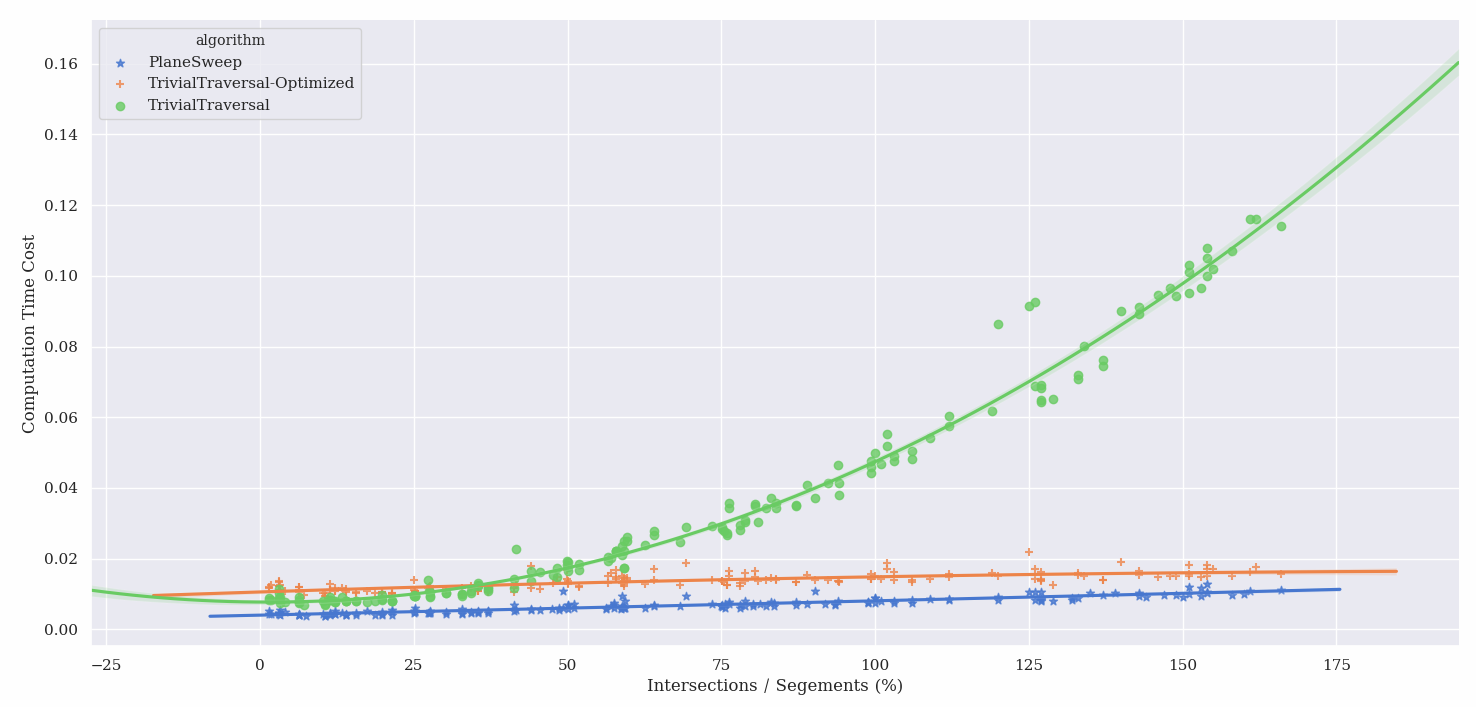
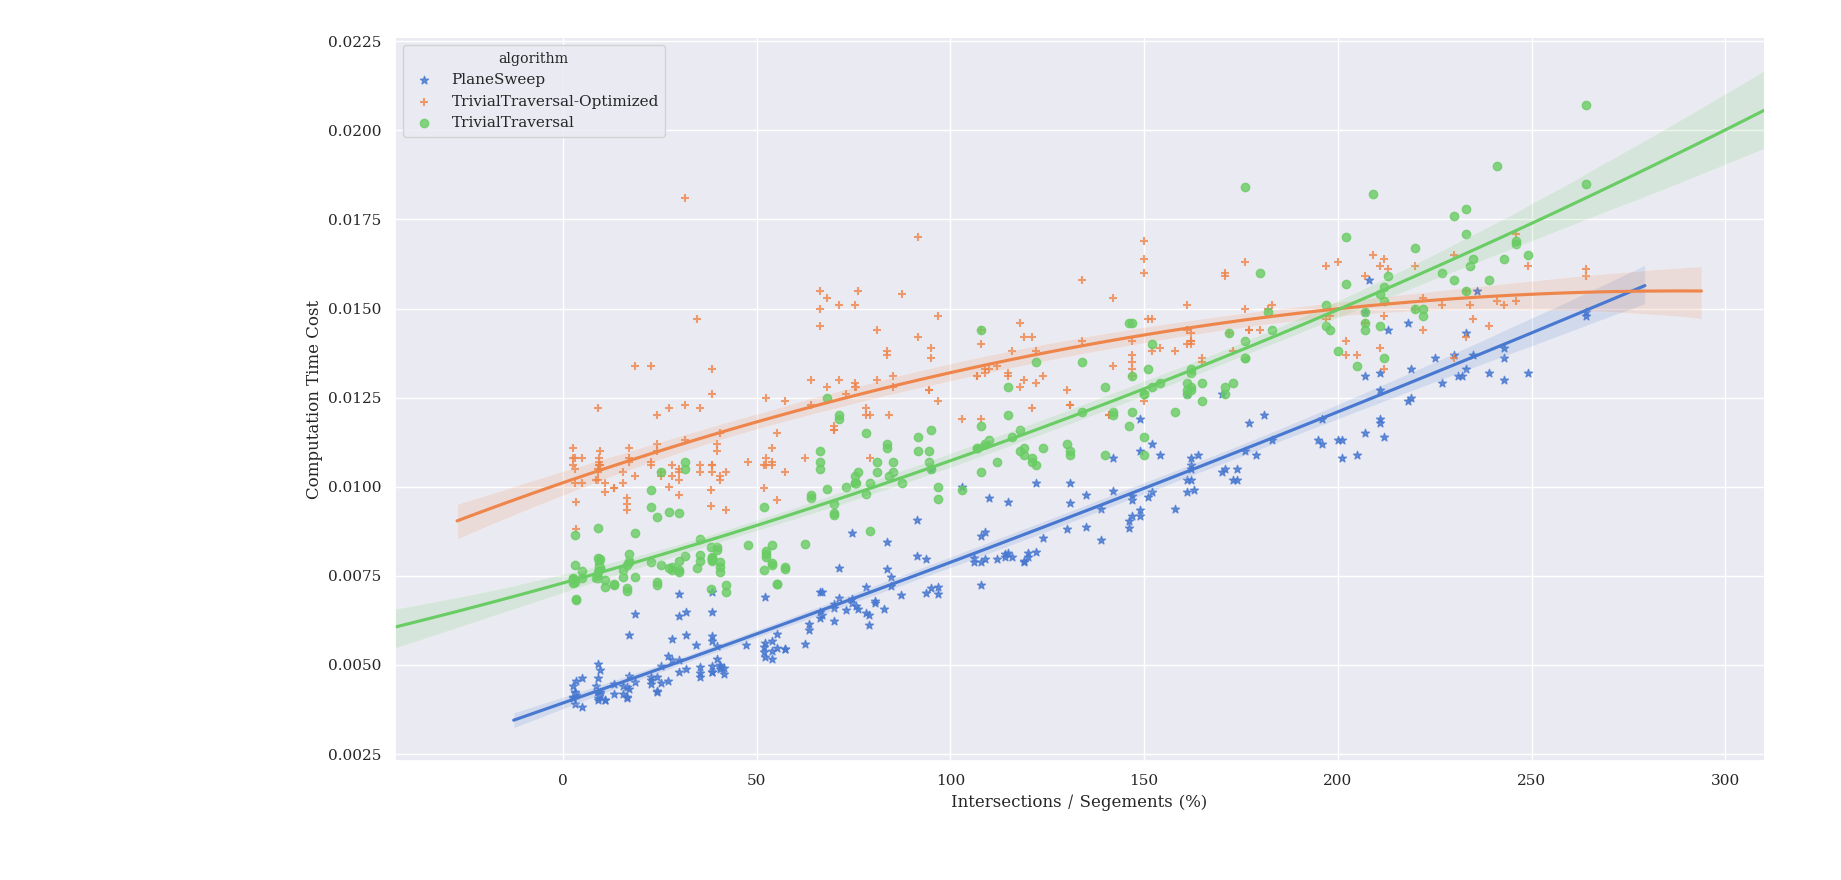
traversal bug fix

diff --git a/Topics/Line Segment Intersection/TrivialTraversalAlgorithm.h b/Topics/Line Segment Intersection/TrivialTraversalAlgorithm.h
@@ -58,18 +58,8 @@ std::vector<PointSegmentAffiliationTraversal> SegmentIntersectionTraversal(std::
 				continue;
 			}
 			int match_index_ = -1;
-			std::vector<PointSegmentAffiliationTraversal> inter_info_hist;
-			std::vector<PointSegmentAffiliationTraversal> *ptr_inter_info_hist;
-			if (simplify_opt) {
-				ptr_inter_info_hist = &inter_info_tmp;
-			} else {
-				inter_info_hist.insert(inter_info_hist.end(), inter_info.begin(), inter_info.end());
-				inter_info_hist.insert(inter_info_hist.end(), inter_info_tmp.begin(), inter_info_tmp.end());
-				ptr_inter_info_hist = &inter_info_hist;
-			}
-			for (int inter_ = 0; inter_ < ptr_inter_info_hist->size(); inter_++) {
-				if (PointCoordSequence((*ptr_inter_info_hist)[inter_].point_, &intersection_,
-															 g_GlobalVars.convention_epsilon) != EQN) {
+			for (int inter_ = 0; inter_ < inter_info_tmp.size(); inter_++) {
+				if (PointCoordSequence(inter_info_tmp[inter_].point_, &intersection_, g_GlobalVars.convention_epsilon) != EQN) {
 					// not match
 				} else {
 					// match
@@ -78,30 +68,57 @@ std::vector<PointSegmentAffiliationTraversal> SegmentIntersectionTraversal(std::
 				}
 			}
 			if (match_index_ > 0) {
-				// match
-				(*ptr_inter_info_hist)[match_index_].segments_.push_back(&((*ptr_segs)[j_]));
-				(*ptr_inter_info_hist)[match_index_].num_ += 1;
-				for (int index_ = 1; index_ < (*ptr_inter_info_hist)[match_index_].seg_indeces_.size(); index_++) {
-					std::map<int, std::vector<int>>::iterator ptr_jump_index_tmp = jump_dict.find(index_);
-					if (ptr_jump_index_tmp != jump_dict.end()) {
-						jump_dict[index_] = std::vector<int>(j_);
-					} else {
-						jump_dict[index_].push_back(j_);
+				// match one tmp
+				inter_info_tmp[match_index_].segments_.push_back(&((*ptr_segs)[j_]));
+				inter_info_tmp[match_index_].num_ += 1;
+				if (simplify_opt) {
+					for (int index_ = 1; index_ < inter_info_tmp[match_index_].seg_indeces_.size(); index_++) {
+						std::map<int, std::vector<int>>::iterator ptr_jump_index_tmp = jump_dict.find(index_);
+						if (ptr_jump_index_tmp != jump_dict.end()) {
+							jump_dict[index_] = std::vector<int>(j_);
+						} else {
+							jump_dict[index_].push_back(j_);
+						}
 					}
+					inter_info_tmp[match_index_].seg_indeces_.push_back(j_);
 				}
-				(*ptr_inter_info_hist)[match_index_].seg_indeces_.push_back(j_);
 				// LOG(INFO) << "find one existing intersection: (" << intersection_.x_ << "," << intersection_.y_ << ")";
 			} else {
-				// new one
-				intersection_pts->push_back(intersection_);
-				PointSegmentAffiliationTraversal info_tmp(EUC2D, (*ptr_segs).size(), &(intersection_pts->back()));
-				info_tmp.segments_.push_back(&((*ptr_segs)[i_]));
-				info_tmp.segments_.push_back(&((*ptr_segs)[j_]));
-				info_tmp.num_ += 2;
-				info_tmp.seg_indeces_.push_back(i_);
-				info_tmp.seg_indeces_.push_back(j_);
-				inter_info_tmp.push_back(info_tmp);
-				// LOG(INFO) << "find one new intersection: (" << intersection_.x_ << "," << intersection_.y_ << ")";
+				if (simplify_opt) {
+					// new one
+					intersection_pts->push_back(intersection_);
+					PointSegmentAffiliationTraversal info_tmp(EUC2D, (*ptr_segs).size(), &(intersection_pts->back()));
+					info_tmp.segments_.push_back(&((*ptr_segs)[i_]));
+					info_tmp.segments_.push_back(&((*ptr_segs)[j_]));
+					info_tmp.num_ += 2;
+					info_tmp.seg_indeces_.push_back(i_);
+					info_tmp.seg_indeces_.push_back(j_);
+					inter_info_tmp.push_back(info_tmp);
+					// LOG(INFO) << "find one new intersection: (" << intersection_.x_ << "," << intersection_.y_ << ")";
+				} else {
+					// new one or previously generated
+					for (int inter_ = 0; inter_ < inter_info.size(); inter_++) {
+						if (PointCoordSequence(inter_info[inter_].point_, &intersection_, g_GlobalVars.convention_epsilon) != EQN) {
+							// not match
+						} else {
+							// match
+							match_index_ = inter_;
+							break;
+						}
+					}
+					if (match_index_ > 0) {
+						// match one previously generated
+					} else {
+						// new one
+						intersection_pts->push_back(intersection_);
+						PointSegmentAffiliationTraversal info_tmp(EUC2D, (*ptr_segs).size(), &(intersection_pts->back()));
+						info_tmp.segments_.push_back(&((*ptr_segs)[i_]));
+						info_tmp.segments_.push_back(&((*ptr_segs)[j_]));
+						info_tmp.num_ += 2;
+						inter_info_tmp.push_back(info_tmp);
+						// LOG(INFO) << "find one new intersection: (" << intersection_.x_ << "," << intersection_.y_ << ")";
+					}
+				}
 			}
 		}
 		inter_info.insert(inter_info.end(), inter_info_tmp.begin(), inter_info_tmp.end());

diff --git a/main.cpp b/main.cpp
@@ -317,7 +317,7 @@ int main(int argc, char **argv) {
 
 	// sweepline_test(10.0, 4.0, 1, true);
 
-	for (float exp_ = 1.2; exp_ < 4.5; exp_ += 0.1) {
+	for (float exp_ = 1.2; exp_ < 6.5; exp_ += 0.1) {
 		for (int expr_ = 0; expr_ < 5; expr_ += 1) {
 			sweepline_test(10.0, exp_, 5);	// atof(argv[1]), atoi(argv[2])
 		}

diff --git a/Topics/Line Segment Intersection/ReadMe.md b/Topics/Line Segment Intersection/ReadMe.md
@@ -4,13 +4,16 @@
 
 <div align=center>
 <img src="https://github.com/ChenZhouUC/GeoChain/blob/master/Topics/Line%20Segment%20Intersection/analysis_1.png" alt="sweepline_anal1" width="1000" height="567"/>
-<img src="https://github.com/ChenZhouUC/GeoChain/blob/master/Topics/Line%20Segment%20Intersection/analysis_2.png" alt="sweepline_anal2" width="1000" height="479"/>
-<img src="https://github.com/ChenZhouUC/GeoChain/blob/master/Topics/Line%20Segment%20Intersection/analysis_3.png" alt="sweepline_anal3" width="1000" height="511"/>
 </div>
 
-The above plots showed that the comparison of Plane Sweep Algorithm vs Trivial Traversal Algorithm. We can easily find that the time cost by Plane Sweep Algorithm is especially sensitive to #intersections/#segments. The upper one used traversal method to find all the intersections but not the segments they belonged to, while the lower two considered both intersections and the segments relationship.
+The above plot showed the comparison of Plane Sweep Algorithm vs Trivial Traversal Algorithm. We can easily find that the time cost by Plane Sweep Algorithm is especially sensitive to #intersections/#segments. If we only consider all the intersections without figuring out the belonging segments, the time consumed will not be sensitive to #intersections/#segments at all, as the first plot showed. However, to conduct a fair contest, we should better find out all the intersections as well as their belonging segments. Here we provide two traversal algorithms. The first one is trivial without optimization which is named TrivialTraversal, while the second one makes use of topological property of the segment intersection problem which we name it TrivialTraversal-Optimized. The results of the time cost experiments and accuracy tests are presented as followed.
 
-Only when #intersections/#segments is less than 200% or so could the Plane Sweep Algorithm be an optimal choice. That is to say, for certain problems where segments tend to be far away from each other, Plane Sweep Algrithm should be a better way to find out all the intersections. Otherwise one may use Trivial Traversal Algorithm (Optimized) instead, since it costs less time and space but claims better accuracy, as showed in the bottom plot.
+<div align=center>
+<img src="https://github.com/ChenZhouUC/GeoChain/blob/master/Topics/Line%20Segment%20Intersection/analysis_2.png" alt="sweepline_anal2" width="1000" height="478"/>
+<img src="https://github.com/ChenZhouUC/GeoChain/blob/master/Topics/Line%20Segment%20Intersection/analysis_3.png" alt="sweepline_anal3" width="1000" height="476"/>
+</div>
+
+Only when #intersections/#segments is less than 200% or so could the Plane Sweep Algorithm be an optimal choice. That is to say, for certain problems where segments tend to be far away from each other, Plane Sweep Algrithm should be a better way to find out all the intersections. Otherwise one may use Trivial Traversal Algorithm (Optimized) instead, since it claims less time and space but achieves better accuracy.
 
 <div align=center>
 <img src="https://github.com/ChenZhouUC/GeoChain/blob/master/Topics/Line%20Segment%20Intersection/Sweepline.png" alt="sweepline" width="400" height="390"/>
